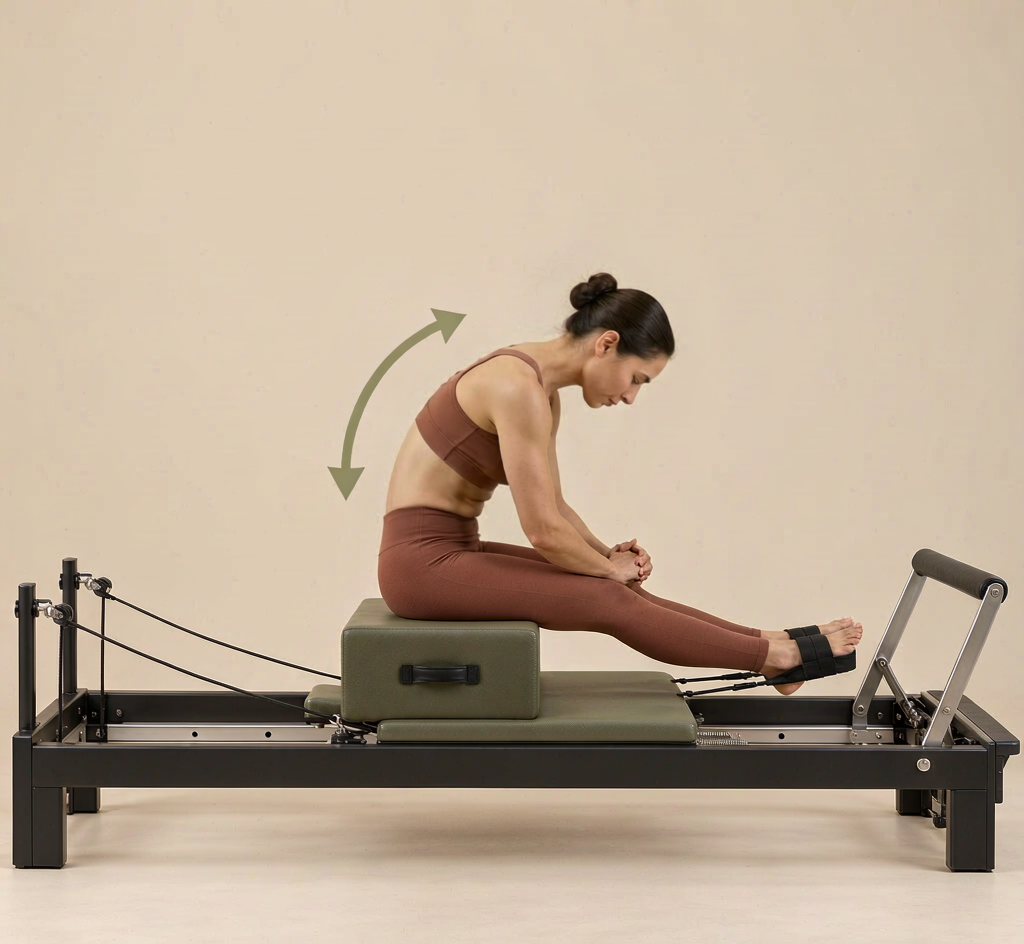
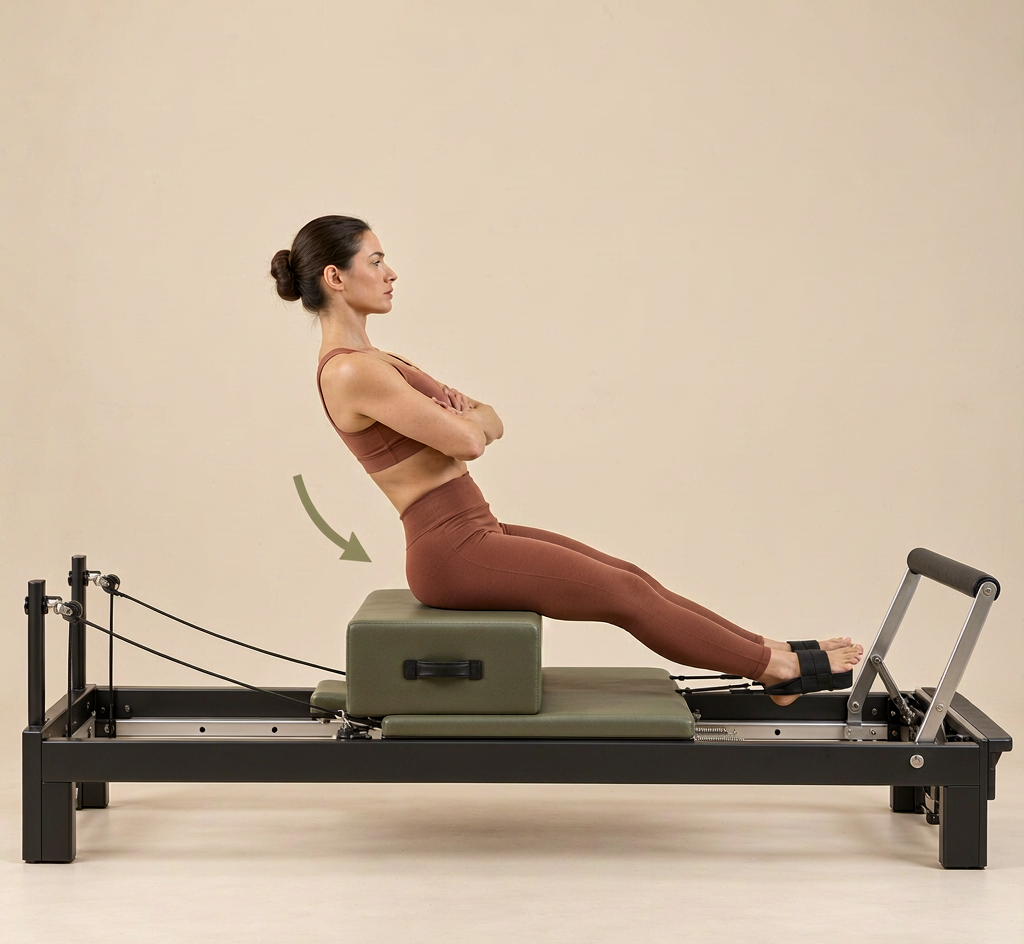
Use corrected Short Box Side to Side image

Changed region(s): [[0.0, 0.215, 1.0, 0.9523]]

diff --git a/src/App.tsx b/src/App.tsx
@@ -306,7 +306,7 @@ const reformerAlignedImages: Record<string, string> = {
   Hug: 'assets/reformer/18.png?v=1',
   'Short Box Round Back': 'assets/reformer/19.png?v=1',
   'Short Box Flat Back': 'assets/reformer/20.png?v=1',
-  "Short Box Side to Side": "assets/reformer/21.png?v=1",
+  "Short Box Side to Side": "assets/reformer/21.png?v=3",
   "Short Box Twist and Reach": "assets/reformer/22.png?v=1",
   "Gone Fishing": "assets/reformer/23.png?v=1",
   "Swan on Long Box": "assets/reformer/24.png?v=1",
